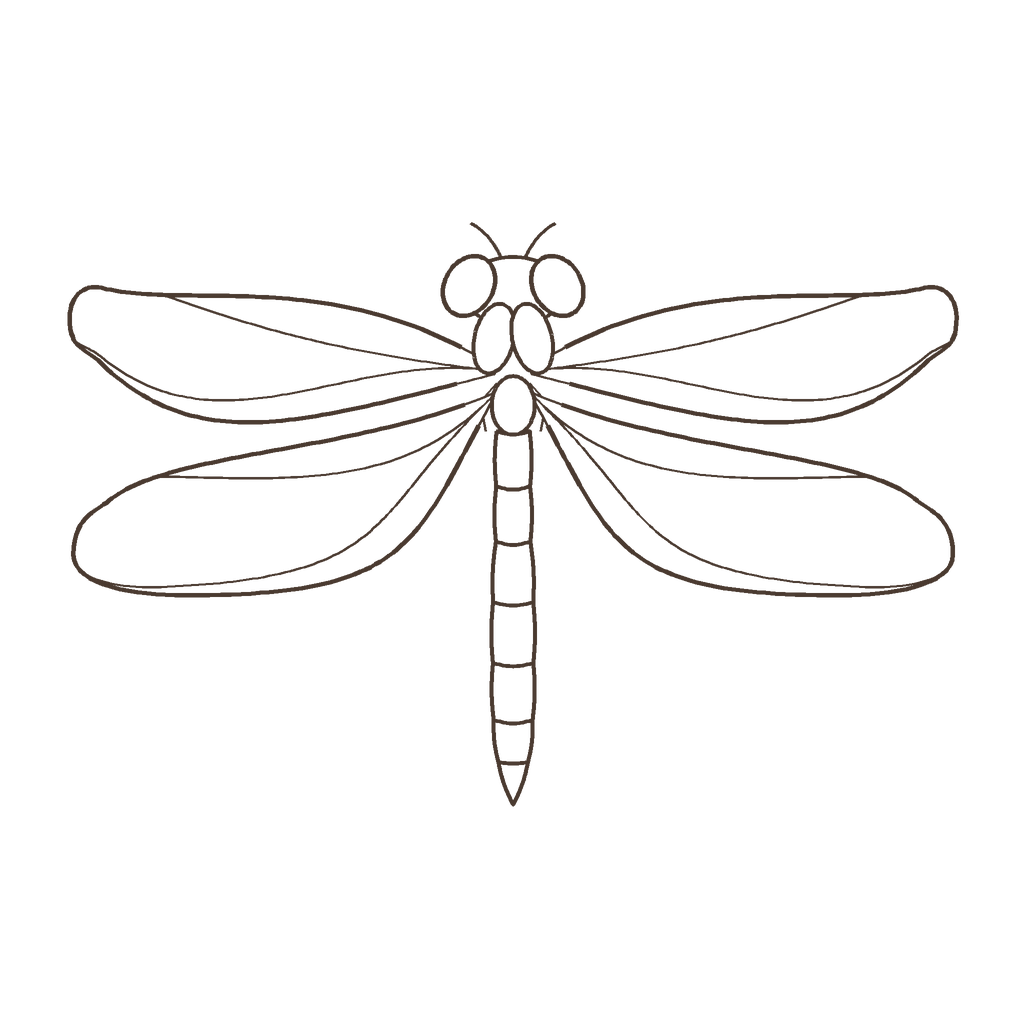
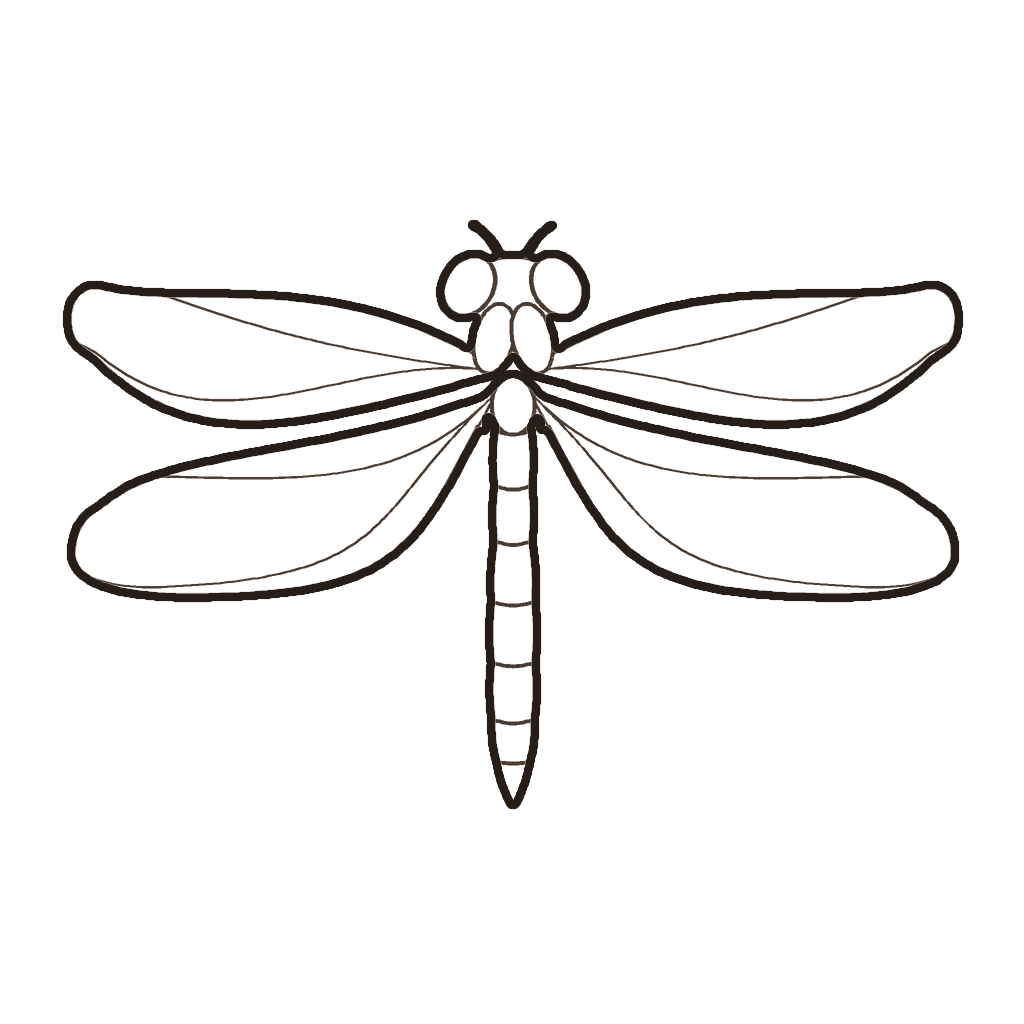
Package PICO launcher artwork and smooth new insect outlines

diff --git a/scripts/build_spatial_launcher.py b/scripts/build_spatial_launcher.py
@@ -1,0 +1,76 @@
+"""Bake the Android vector artwork into PICO's ordered color and distance layers."""
+from pathlib import Path
+import re
+import xml.etree.ElementTree as ET
+import cv2
+import numpy as np
+from PIL import Image, ImageDraw
+
+RES = Path(__file__).resolve().parents[1] / "app/src/main/res"
+DRAWABLE = RES / "drawable"
+ANDROID = "{http://schemas.android.com/apk/res/android}"
+SIZE = 1024
+
+
+def sample_path(data):
+    paths = []
+    for command, values in re.findall(r"([MCQZ])([^MCQZ]*)", data):
+        numbers = list(map(float, re.findall(r"-?\d+(?:\.\d+)?", values)))
+        points = np.array(numbers).reshape(-1, 2)
+        if command == "M":
+            paths.append([points[0]])
+        elif command == "Z":
+            paths[-1].append(paths[-1][0])
+        else:
+            start = paths[-1][-1]
+            for t in np.linspace(0, 1, 65)[1:]:
+                u = 1 - t
+                if command == "Q":
+                    position = u*u*start + 2*u*t*points[0] + t*t*points[1]
+                else:
+                    position = u**3*start + 3*u*u*t*points[0] + 3*u*t*t*points[1] + t**3*points[2]
+                paths[-1].append(position)
+    return paths
+
+
+def save_layer(layer, index):
+    layer = layer.resize((SIZE, SIZE), Image.Resampling.LANCZOS)
+    layer.save(DRAWABLE / f"icon_3d_layer_{index}.png", optimize=True)
+    alpha = np.asarray(layer.getchannel("A"))
+    solid = (alpha >= 128).astype(np.uint8)
+    inner = cv2.distanceTransform(solid, cv2.DIST_L2, cv2.DIST_MASK_PRECISE)
+    outer = cv2.distanceTransform(1 - solid, cv2.DIST_L2, cv2.DIST_MASK_PRECISE)
+    distance = np.clip(128 + (inner - outer) * 9, 0, 255).astype(np.uint8)
+    field = Image.fromarray(distance)
+    Image.merge("RGBA", (field, field, field, Image.fromarray(alpha))).save(
+        DRAWABLE / f"icon_3d_sdf_{index}.png", optimize=True)
+    return layer
+
+
+def main():
+    scale = 2
+    extent = SIZE * scale
+    canvas = (extent, extent)
+    background = Image.new("RGBA", canvas)
+    color = ET.parse(RES / "values/launcher_colors.xml").getroot().findtext("color")
+    ImageDraw.Draw(background).rounded_rectangle((0, 0, extent-1, extent-1), radius=extent*.22, fill=color)
+    foreground = Image.new("RGBA", canvas)
+    draw = ImageDraw.Draw(foreground)
+    multiplier = extent / 108
+    for element in ET.parse(DRAWABLE / "ic_launcher_foreground.xml").getroot():
+        attrs = element.attrib
+        for path in sample_path(attrs[ANDROID + "pathData"]):
+            points = [tuple(point * multiplier) for point in path]
+            if ANDROID + "fillColor" in attrs:
+                draw.polygon(points, fill=attrs[ANDROID + "fillColor"])
+            else:
+                width = round(float(attrs[ANDROID + "strokeWidth"]) * multiplier)
+                draw.line(points, fill=attrs[ANDROID + "strokeColor"], width=width, joint="curve")
+    preview = Image.alpha_composite(save_layer(background, 0), save_layer(foreground, 1))
+    fallback = RES / "mipmap-xxxhdpi"
+    fallback.mkdir(exist_ok=True)
+    preview.resize((512, 512), Image.Resampling.LANCZOS).save(fallback / "ic_spatial_launcher.png", optimize=True)
+
+
+if __name__ == "__main__":
+    main()

diff --git a/assets-src/expansion-114/finish_outline.py b/assets-src/expansion-114/finish_outline.py
@@ -1,0 +1,32 @@
+"""Round the outer edge of expansion templates without altering paint region IDs."""
+import cv2
+import numpy as np
+from PIL import Image
+
+
+def finish_outline(lines: Image.Image, mask: Image.Image) -> Image.Image:
+    rgba = np.array(lines.convert("RGBA"))
+    paint = np.asarray(mask.convert("RGB"))[:, :, 0] > 0
+    dark = (rgba[:, :, :3].max(axis=2) < 160) & (rgba[:, :, 3] > 0)
+    rgba[dark, :3] = (73, 57, 47)
+    ink = (rgba[:, :, 3] >= 120) & (rgba[:, :, :3].max(axis=2) < 160)
+    silhouette = (paint | ink).astype(np.uint8)
+    kernel = cv2.getStructuringElement(cv2.MORPH_ELLIPSE, (7, 7))
+    silhouette = cv2.morphologyEx(silhouette, cv2.MORPH_CLOSE, kernel)
+    contours, _ = cv2.findContours(silhouette, cv2.RETR_EXTERNAL, cv2.CHAIN_APPROX_SIMPLE)
+    filled = np.zeros_like(silhouette)
+    # Keep independent details such as fine antennae in the original ink layer.
+    contours = [contour for contour in contours if cv2.contourArea(contour) >= 180]
+    cv2.drawContours(filled, contours, -1, 1, thickness=cv2.FILLED)
+    rounded = (cv2.GaussianBlur(filled.astype(np.float32), (0, 0), 2.2) >= .49).astype(np.uint8)
+    inside = cv2.distanceTransform(rounded, cv2.DIST_L2, cv2.DIST_MASK_PRECISE)
+    outside = cv2.distanceTransform(1 - rounded, cv2.DIST_L2, cv2.DIST_MASK_PRECISE)
+    edge_distance = np.abs(inside - outside) - .5
+    # Replace the previous outer ink near the edge while keeping inner anatomy.
+    rgba[:, :, 3] = np.rint(
+        rgba[:, :, 3] * np.clip((edge_distance - 3.2) / 2.0, 0, 1)
+    ).astype(np.uint8)
+    alpha = np.rint(np.clip(4.6 - edge_distance, 0, 1) * 255).astype(np.uint8)
+    outline = Image.new("RGBA", lines.size, (40, 30, 25))
+    outline.putalpha(Image.fromarray(alpha))
+    return Image.alpha_composite(Image.fromarray(rgba), outline)

diff --git a/assets-src/expansion-114/ground/draw_paper.py b/assets-src/expansion-114/ground/draw_paper.py
@@ -108,10 +108,16 @@ def make(kind):
     antialias=ink.resize((1024,1024),Image.Resampling.LANCZOS)
     alpha=np.rint((255-np.asarray(antialias)[:,:,1].astype(float))/(255-INK[1])*255).clip(0,255).astype('uint8')
     outline=Image.new('RGBA',(1024,1024),INK+(255,))
-    outline.putalpha(Image.fromarray(alpha));outline.save(RUNTIME/f'templates/{kind}-lines.png')
+    outline.putalpha(Image.fromarray(alpha))
     m=np.asarray(mask)
     rgb=np.zeros((1024,1024,3),dtype=np.uint8);rgb[:,:,0]=m
-    Image.fromarray(rgb).save(RUNTIME/f'templates/{kind}-mask.png')
+    region_image = Image.fromarray(rgb)
+    region_image.save(RUNTIME/f'templates/{kind}-mask.png')
+    import sys
+    sys.path.insert(0, str(Path(__file__).resolve().parents[1]))
+    from finish_outline import finish_outline
+    outline = finish_outline(outline, region_image)
+    outline.save(RUNTIME/f'templates/{kind}-lines.png', optimize=True)
     # Colored pencil with broken directional strokes, cross-grain, flecks and darker fibres.
     rng=random.Random(346 if kind=='ant' else 899)
     palette=np.array([(151,119,76),*PALETTE[kind]],dtype=float)

diff --git a/assets-src/expansion-114/flying/build_paper.py b/assets-src/expansion-114/flying/build_paper.py
@@ -93,7 +93,9 @@ def render(slug):
     raw=cleaned.copy(); rgb=np.zeros((1024,1024,3),np.uint8);rgb[:,:,0]=raw
     Image.fromarray(rgb).save(V3/'templates'/f'{slug}-mask.png',optimize=True)
     lines=lines.resize((1024,1024),Image.Resampling.LANCZOS)
-    lines.save(V3/'templates'/f'{slug}-lines.png',optimize=True)
+    pythonpath.insert(0, str(SOURCE))
+    from finish_outline import finish_outline
+    finish_outline(lines, Image.fromarray(rgb)).save(V3/'templates'/f'{slug}-lines.png', optimize=True)
     icon=lines.resize((96,96),Image.Resampling.LANCZOS); alpha=icon.getchannel('A')
     # Increase optical stroke weight at the small 96px native size.
     alpha=alpha.filter(ImageFilter.MaxFilter(3))

diff --git a/docs/Troubleshooting-Retrospective.md b/docs/Troubleshooting-Retrospective.md
@@ -271,3 +271,9 @@
 - **现象与证据**。1.0.14 真机可以最小化主画板，退出后画板未恢复。上一轮依赖 Stage Compose 销毁，已挂载分支只发出一次按 ID 恢复请求。SDK 6.1.0 的 `SpatialNavigator` 同时提供按 ID 和当前窗口恢复，返回布尔值。Compose 挂载状态无法证明原生窗口可见。
 - **本轮候选**。监听 Stage 原生 `isOnstage` 变为 false，保留销毁兜底。优先从画板自己的 navigator 发起恢复，过渡期拒绝时有限重试，必要时按原 ID 打开。作品册按进入前状态恢复。
 - **回归与待确认**。APK 构建和单元测试检查代码路径。真机仍需验证魔法球退出、系统退出、作品册原先打开与关闭的两种情况，以及画板返回后仍可绘画。尚未拿到窗口可见性的真机结果。
+
+### 1.0.16 PICO 启动器仍显示默认图标
+
+- **证据**。1.0.15 真机升级后仍显示默认图标。该版将应用入口改为 Android adaptive icon，并移除了原 PICO 模板声明的两组空间图标数组。
+- **候选**。恢复 `icon.3d.list` 和 `icon.sdf.list` 声明及前后景顺序，将默认图案换成 BugWorld 的蝶与叶。为 Application 和入口 Activity 同时提供同一图案的 PNG，兼容读取标准 Android 图标的入口。
+- **回归**。验证 APK 版本、图标清单引用和打包资源。真机升级后启动器是否立即显示新图案仍待确认。

diff --git a/docs/Implementation-Metrics.md b/docs/Implementation-Metrics.md
@@ -391,3 +391,7 @@
 ### 1.0.15 真机体验反馈修订
 
 本轮使用 Gradle 构建、测试和 lint，PICO CLI 调用 0 次。用时和 Token 未单独采集。
+
+### 1.0.16 图标与画纸轮廓
+
+本轮用本地 SDK、Gradle 和资产校验脚本构建，PICO CLI 调用 0 次。用时与 Token 未单独采集。
